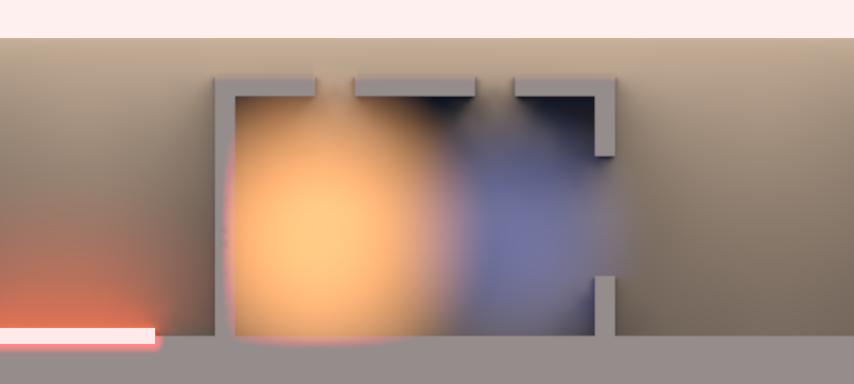
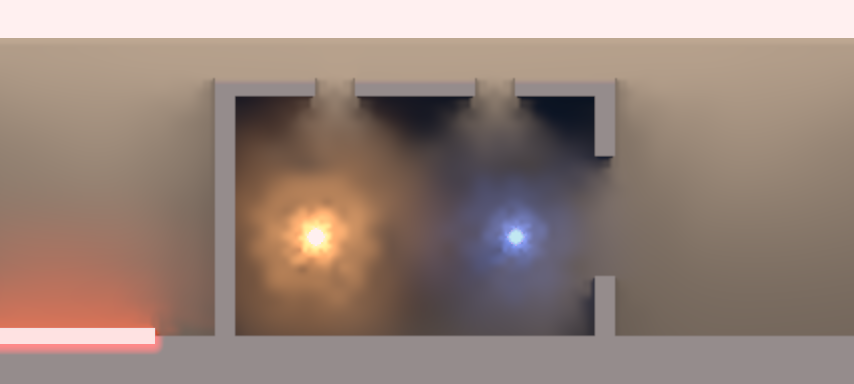
fixtures: re-bless the look goldens for glowing light
Claude-Session: https://claude.ai/code/session_019821i4KFSbhZ4mHYULrhEV

Changed region(s): [[0.2436, 0.2188, 0.7307, 0.9062]]

diff --git a/crates/olr-cli/tests/playtest.rs b/crates/olr-cli/tests/playtest.rs
@@ -22,40 +22,43 @@ fn playtest_packs_check_clean() {
     let o = cli(&["pack", "check", dir.to_str().unwrap(), "--content", &content]);
     let out = String::from_utf8_lossy(&o.stdout);
     assert!(
-        o.status.success() && out.contains("0 errors, 0 warnings"),
+        o.status.success() && out.contains("checked 2 packs: 0 errors, 0 warnings"),
         "{out}{}",
         String::from_utf8_lossy(&o.stderr)
     );
 }
 
+/// Both lit Castle Strikes (night and day, plan 15c) play and draw lit.
 #[test]
-fn the_lit_castle_strike_plays() {
+fn the_lit_castle_strikes_play() {
     if std::env::var_os("OLR_GPU_TESTS").is_none() {
         return;
     }
     let Some(content) = content_dir() else { return };
     let tmp = tempfile::tempdir().unwrap();
-    let out = tmp.path().join("night.png");
     let dir = playtest_dir();
-    let o = cli(&[
-        "render-match",
-        "--mod",
-        "olx-classic",
-        "--level",
-        "olr-level-castlestrike-night",
-        "--bots",
-        "3",
-        "--seed",
-        "1",
-        "--ticks",
-        "200",
-        "--packs",
-        dir.to_str().unwrap(),
-        "--content",
-        &content,
-        "--out",
-        out.to_str().unwrap(),
-    ]);
-    assert!(o.status.success(), "{}", String::from_utf8_lossy(&o.stderr));
-    assert!(String::from_utf8_lossy(&o.stdout).contains("lights"), "a lit match");
+    for level in ["olr-level-castlestrike-night", "olr-level-castlestrike-day"] {
+        let out = tmp.path().join(format!("{level}.png"));
+        let o = cli(&[
+            "render-match",
+            "--mod",
+            "olx-classic",
+            "--level",
+            level,
+            "--bots",
+            "3",
+            "--seed",
+            "1",
+            "--ticks",
+            "200",
+            "--packs",
+            dir.to_str().unwrap(),
+            "--content",
+            &content,
+            "--out",
+            out.to_str().unwrap(),
+        ]);
+        assert!(o.status.success(), "{level}: {}", String::from_utf8_lossy(&o.stderr));
+        assert!(String::from_utf8_lossy(&o.stdout).contains("glowing discs"), "{level}: a lit match");
+    }
 }
